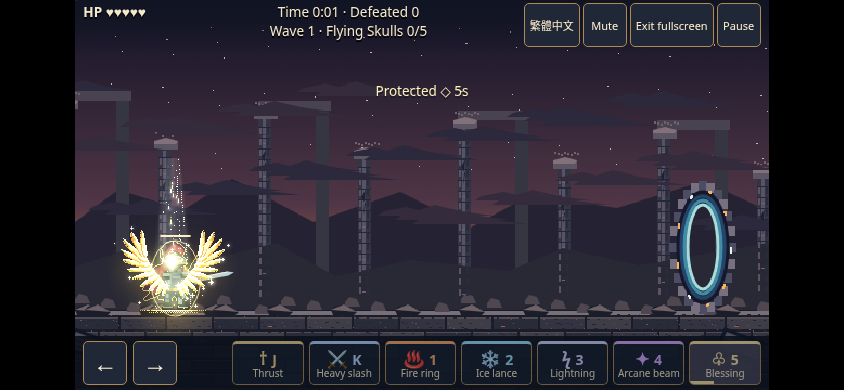
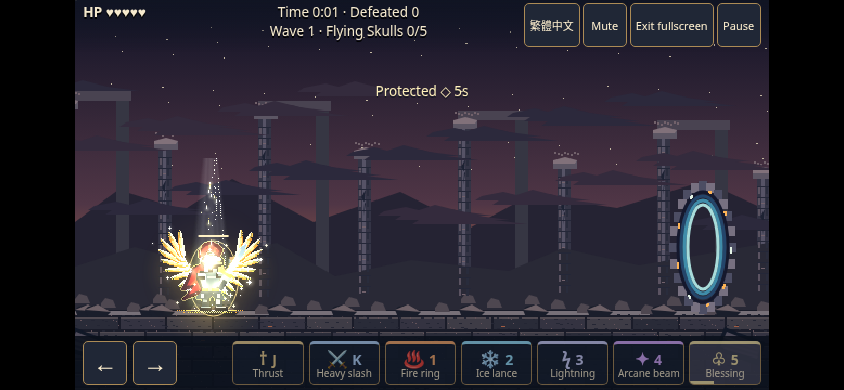
Verify real held touch movement and cancellation through Chromium input

Changed region(s): [[0.1232, 0.4, 0.3081, 0.8615]]

diff --git a/tests/browser/game.spec.js b/tests/browser/game.spec.js
@@ -2,7 +2,7 @@ import {test,expect} from '@playwright/test';
 const shot=(p,name)=>p.screenshot({path:`docs/evidence/${name}.png`});
 test('title artwork, fullscreen denial, keyboard/touch, language, pause, death/restart and storage',async({page})=>{const errors=[];page.on('pageerror',e=>errors.push(e.message));await page.addInitScript(()=>{Element.prototype.requestFullscreen=()=>Promise.reject(Error('denied'));});await page.goto('./');await expect(page.locator('#title-art')).toBeVisible();await shot(page,'title-en');await page.locator('#title-lang').click();await expect(page.locator('#start')).toHaveText('開始遊戲');await shot(page,'title-zh');await page.locator('#start').click();await expect(page.locator('#arena')).toBeVisible();await page.keyboard.down('d');await page.waitForTimeout(300);await page.keyboard.up('d');expect(await page.evaluate(()=>window.__game.g.x)).toBeGreaterThan(100);await page.keyboard.press('5');await page.waitForTimeout(300);await shot(page,'blessing');await page.waitForTimeout(850);await page.locator('#lang').click();const oldTime=await page.evaluate(()=>window.__game.g.time);await page.keyboard.press('p');await page.waitForTimeout(300);expect(await page.evaluate(()=>window.__game.g.time)).toBeCloseTo(oldTime,0);await shot(page,'pause');await page.locator('#resume').click();await page.evaluate(()=>{const g=window.__game.g;g.blessedUntil=0;g.immuneUntil=0;g.hurt(5)});await expect(page.locator('#overlay-title')).toHaveText('Game Over');await shot(page,'game-over');await page.locator('#restart').click();await expect(page.locator('#hp')).toContainText('♥♥♥♥♥');expect(await page.evaluate(()=>window.__game.g.kills)).toBe(0);await page.evaluate(()=>{const g=window.__game.g;g.hurt(5)});await page.locator('#back').click();await expect(page.locator('#title')).toBeVisible();await page.reload();expect(await page.evaluate(()=>window.__game.save.data.best.time)).toBeGreaterThan(0);expect(errors).toEqual([]);});
 test('actual FX frames, skulls, king, both swords, no runtime errors',async({page})=>{const errors=[];page.on('pageerror',e=>errors.push(e.message));await page.goto('./');await page.locator('#start').click();await page.evaluate(()=>{const g=window.__game.g;g.blessedUntil=100;g.spawn('skull',250);g.spawn('boss',420);});await page.waitForTimeout(200);await shot(page,'arena-king-skull');for(const [key,delay]of [['j',550],['k',640],['1',1000],['2',1500],['3',700],['4',1500],['5',400]]){await page.evaluate(()=>{window.__game.g.action=null});await page.keyboard.press(key);await page.waitForTimeout(delay);await shot(page,`action-${key}`);}expect(errors).toEqual([]);});
-test('landscape touch controls, cancel release, portrait pause and reduced motion',async({browser})=>{const context=await browser.newContext({viewport:{width:844,height:390},hasTouch:true,isMobile:true,reducedMotion:'reduce'});const page=await context.newPage();await page.goto('./');await page.locator('#start').tap();await expect(page.locator('.action')).toHaveCount(7);const b=page.locator('[data-move="1"]');await b.dispatchEvent('pointerdown',{pointerId:7,pointerType:'touch'});await page.waitForTimeout(300);await b.dispatchEvent('pointercancel',{pointerId:7,pointerType:'touch'});const x=await page.evaluate(()=>window.__game.g.x);await page.waitForTimeout(200);expect(await page.evaluate(()=>window.__game.g.x)).toBeCloseTo(x);for(const button of await page.locator('footer button').all()){const box=await button.boundingBox();expect(box.width).toBeGreaterThanOrEqual(44);expect(box.height).toBeGreaterThanOrEqual(44);expect(await button.getAttribute('aria-label')).toBeTruthy();}await page.locator('[data-key="5"]').tap();await page.waitForTimeout(300);await shot(page,'mobile-landscape');await page.setViewportSize({width:390,height:844});await expect(page.locator('#rotate')).toBeVisible();const time=await page.evaluate(()=>window.__game.g.time);await page.waitForTimeout(300);expect(await page.evaluate(()=>window.__game.g.time)).toBe(time);await shot(page,'portrait');await page.setViewportSize({width:844,height:390});await expect(page.locator('#rotate')).toBeHidden();await context.close();});
+test('landscape touch controls, cancel release, portrait pause and reduced motion',async({browser})=>{const context=await browser.newContext({viewport:{width:844,height:390},hasTouch:true,isMobile:true,reducedMotion:'reduce'});const page=await context.newPage();await page.goto('./');await page.locator('#start').tap();await expect(page.locator('.action')).toHaveCount(7);const b=page.locator('[data-move="1"]');const initialX=await page.evaluate(()=>window.__game.g.x);const box=await b.boundingBox();const touch=await context.newCDPSession(page);await touch.send('Input.dispatchTouchEvent',{type:'touchStart',touchPoints:[{x:box.x+box.width/2,y:box.y+box.height/2}]});await page.waitForTimeout(300);expect(await page.evaluate(()=>window.__game.g.x)).toBeGreaterThan(initialX+10);await touch.send('Input.dispatchTouchEvent',{type:'touchCancel',touchPoints:[]});const x=await page.evaluate(()=>window.__game.g.x);await page.waitForTimeout(200);expect(await page.evaluate(()=>window.__game.g.x)).toBeCloseTo(x);for(const button of await page.locator('footer button').all()){const box=await button.boundingBox();expect(box.width).toBeGreaterThanOrEqual(44);expect(box.height).toBeGreaterThanOrEqual(44);expect(await button.getAttribute('aria-label')).toBeTruthy();}await page.locator('[data-key="5"]').tap();await page.waitForTimeout(300);await shot(page,'mobile-landscape');await page.setViewportSize({width:390,height:844});await expect(page.locator('#rotate')).toBeVisible();const time=await page.evaluate(()=>window.__game.g.time);await page.waitForTimeout(300);expect(await page.evaluate(()=>window.__game.g.time)).toBe(time);await shot(page,'portrait');await page.setViewportSize({width:844,height:390});await expect(page.locator('#rotate')).toBeHidden();await context.close();});
 test('blocked audio/storage and automatic/manual pause reconciliation',async({page})=>{await page.addInitScript(()=>{Object.defineProperty(window,'localStorage',{get(){throw Error('blocked')}});window.AudioContext=function(){throw Error('blocked')};});await page.goto('./');await page.locator('#start').click();await expect(page.locator('#status')).toContainText('Storage unavailable');await page.keyboard.press('p');await page.evaluate(()=>window.dispatchEvent(new Event('blur')));await page.waitForTimeout(100);expect(await page.evaluate(()=>window.__game.g.paused)).toBe(true);await page.locator('#resume').click();expect(await page.evaluate(()=>window.__game.g.paused)).toBe(false);await page.keyboard.press('j');await page.waitForTimeout(1300);expect(await page.evaluate(()=>window.__game.g.action)).toBe(null);});
 
 test('unmodified keyboard play completes a wave, then natural defeat and restart',async({page})=>{test.setTimeout(90000);await page.goto('./');await page.locator('#start').click();await page.keyboard.press('5');await page.waitForTimeout(1100);await page.keyboard.down('d');await page.waitForTimeout(2500);await page.keyboard.up('d');let completed=0;

diff --git a/docs/RELEASE.md b/docs/RELEASE.md
@@ -6,7 +6,7 @@ Contract: 2026-11-08, AICP 2.1.1 / UGDS 2.0.0 pinned at 61c24205f437826f1fc901f1
 
 - PASS: production build (Vite / Node 24), static repository subpath assets.
 - PASS: 21 deterministic rule tests: five skulls at 2s spacing and boss-after-deaths, repeated wave, collision, contact/global immunity, hammer windup/impact/recovery/range, both swords, AoE, swept first-hit lance, distinct chain targets, delayed beam, five-second refreshed Blessing and one-second cast root, serialization/no queue, pause clocks, death/reset and robust best/preferences storage.
-- PASS: initial four Chromium groups: bilingual title and active-game switch, fullscreen denial, keyboard movement, all action frames, Game Over/restart/title, local best reload, mobile 844×390 touch/cancel, portrait pause/guidance, reduced motion, storage/audio denial and manual/automatic pause reconciliation. PASS: additional unmodified keyboard play completed a full five-skull/king wave and reached wave 2, followed by natural defeat/restart. Focused axe WCAG A/AA scans in both languages on title/arena returned zero violations (four states). Browser runner: 6 groups passed.
+- PASS: initial four Chromium groups: bilingual title and active-game switch, fullscreen denial, keyboard movement, all action frames, Game Over/restart/title, local best reload, mobile 844×390 touch/cancel (real Chromium touchStart → hold → touchCancel; verified movement before cancellation and no movement afterwards), portrait pause/guidance, reduced motion, storage/audio denial and manual/automatic pause reconciliation. PASS: additional unmodified keyboard play completed a full five-skull/king wave and reached wave 2, followed by natural defeat/restart. Focused axe WCAG A/AA scans in both languages on title/arena returned zero violations (four states). Browser runner: 6 groups passed.
 - Visual evidence: docs/evidence includes actual title, skull/king arena, both swords/five spells, shortened wing/halo/feather Blessing, pause, Game Over, mobile and portrait. The combat showcase uses clearly synthetic inspection fixtures (simultaneous boss/skulls and long protection) to inspect actors/effects; those fixtures are not production gameplay rules. Natural-play evidence is recorded separately in natural-wave-completed.png and natural-game-over.png. Three-frame sequences of each action and a hammer windup/impact/recovery sequence are retained; these extra showcase sequences use inspection fixtures. A development-only inspection hook is stripped from production.
 - PASS: production-artifact browser smoke (no development hook): real START/sword/beam/pause/natural death/restart/Chinese/mute; no broken resources or third-party runtime requests. See production-smoke.json.
 - PASS: lossless 1672×941 card WebP decoded pixels match the exact original PNG. SHA-256: 7549e770d46983b18acdcc19c1b922d7600bcc404fa1f161e691b5e75a33e59a. This prepared derivative is not evidence of portfolio publication.
